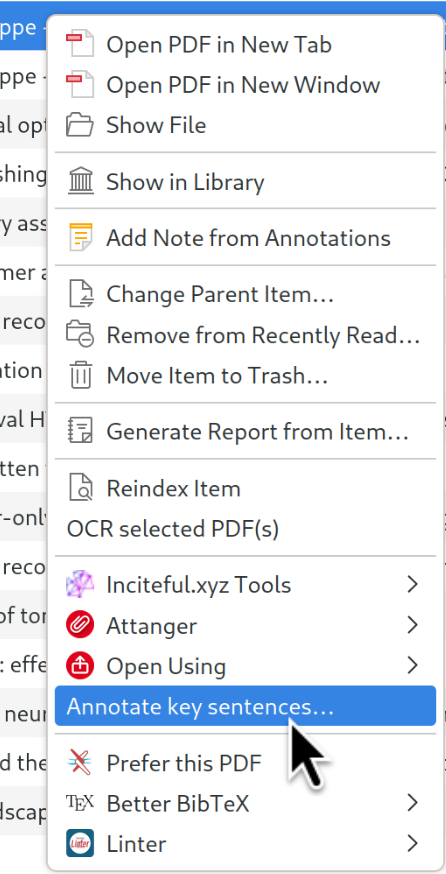
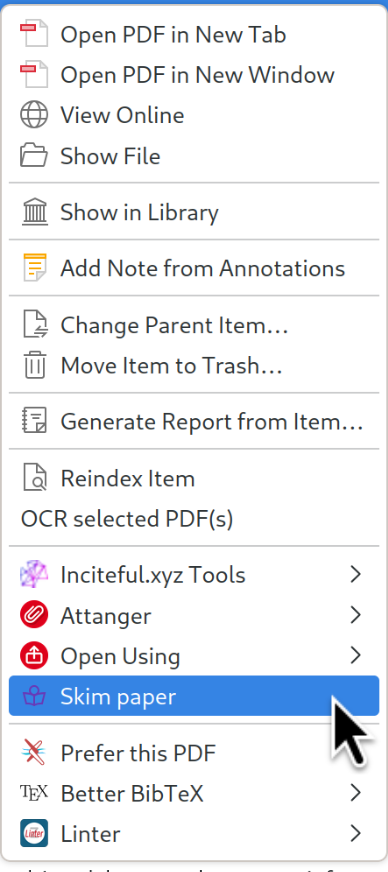
docs: refresh skim UI guide

Changed region(s): [[0.0, 0.0, 1.0, 1.0]]

diff --git a/content/annotator.js b/content/annotator.js
@@ -351,7 +351,7 @@ FastOfflineKeySentenceAnnotator = {
     remoteConfig.appendChild(remoteGrid);
     remoteConfig.appendChild(create("p", {
       style: "margin: 8px 0 0; opacity: 0.78; font-size: 0.92rem; line-height: 1.38"
-    }, "Any compatible endpoint works. The summary guides sentence ranking via semantic similarity."));
+    }, "Any OpenAI compatible API works. The summary guides sentence ranking via semantic similarity."));
     form.appendChild(remoteConfig);
 
     const error = create("p", {

diff --git a/README.md b/README.md
@@ -23,8 +23,8 @@ The add-on targets Zotero 9.x. It does not modify source PDFs; it creates native
 ## Usage
 
 1. Select a PDF attachment in the Zotero library.
-2. Right-click it and choose **Annotate key sentences…**. <img src="assets/context-menu.png" alt="Zotero PDF context menu" width="150" />
-3. Configure the remote summarization endpoint, API key, and model name. Any OpenAI-compatible API works (OpenAI, Anthropic via litellm, Deepseek, local vLLM/Ollama, Openrouter, Together.ai, etc.). <img src="assets/settings-dialog.png" alt="Key-sentence annotation settings" width="400" />
+2. Right-click it and choose **Skim paper**. <img src="assets/context-menu.png" alt="Zotero PDF context menu with Skim paper selected" width="150" />
+3. Configure the remote summarization endpoint, API key, and model name. Any OpenAI compatible API works. <img src="assets/settings-dialog.png" alt="Paper skim settings dialog" width="400" />
 4. Set the average, minimum, and maximum annotations per PDF.
 5. Enable optional local transformer stages (embeddings, classification) as needed.
 6. Click **Update models** to download selected local model assets into the Zotero profile cache. This is required only once per selected model and revision.